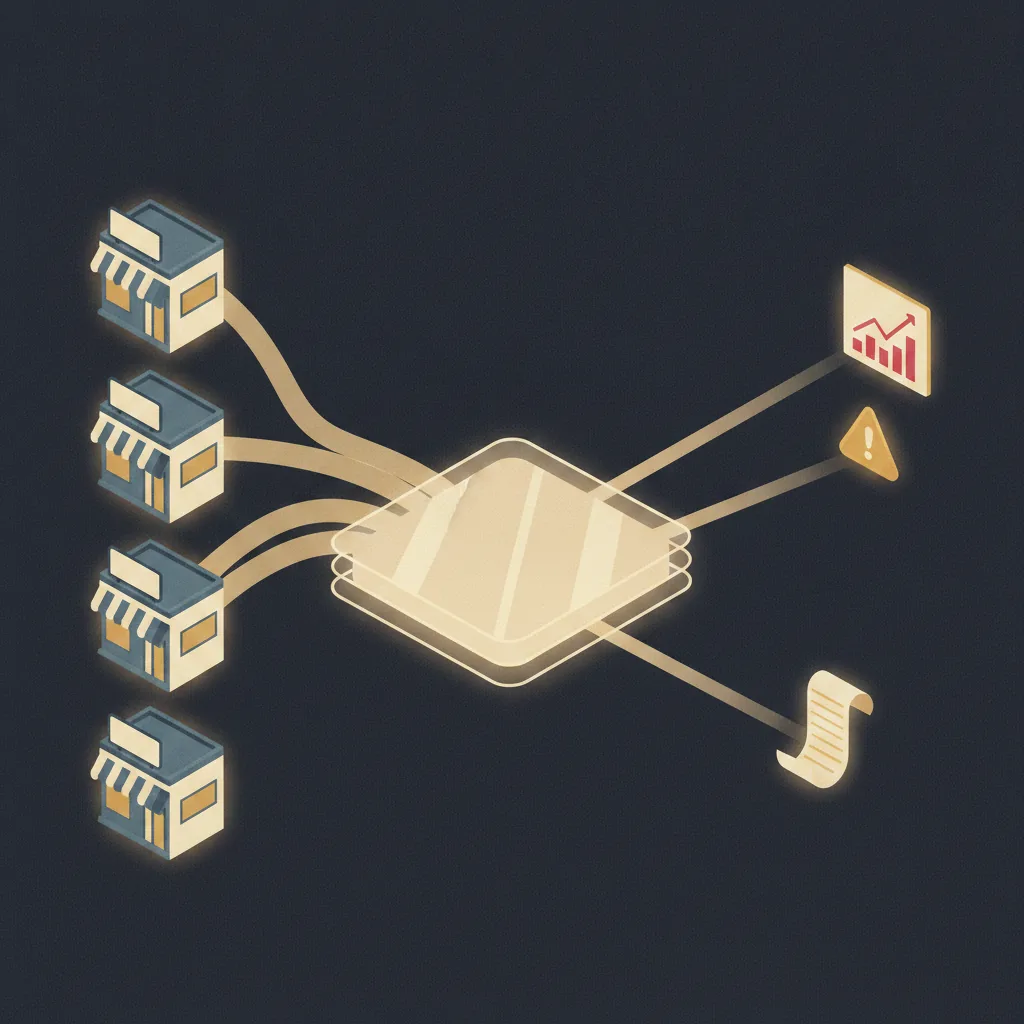
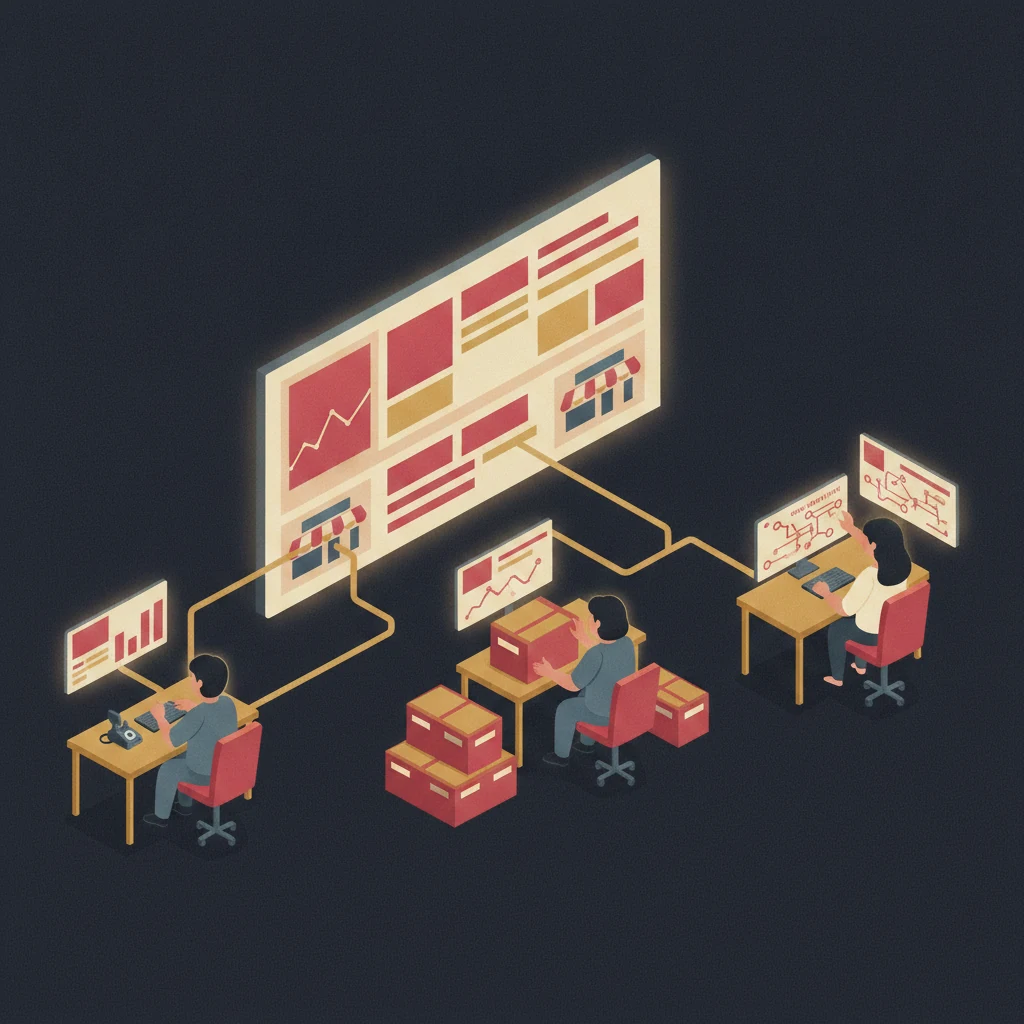
fix(content,illus): 依 Codex 經營層稽核共識調整內容承諾、表單分流與五張插圖
Jason 2026-08-16：「用 codeX 來看一下這網站，用東方美經營層角度看看，哪裡要加強？
那些插圖要調整？妳們共識後進行調整。」兩輪對話後的共識結果。

■ 硬承諾改成「做了什麼 + 適用條件」，不保證結果
- 供應不中斷 / 精準配送零積壓 / 故障前先處理 / 網路波動店務依然穩定如常 /
  技術專家全程支援 / 備援系統 六處全部改寫
- 「軟體零成本」直接撤除改「模組化導入」——加盟方案尚未定案時不能出現價格宣稱，
  這是 Jason 自己定的「加盟方案還沒決定就別亂寫」

■ 表單：新加盟 / 既有加盟主雙入口
- 全站 CTA 原本只導向「加盟洽詢」，426 家既有加盟店沒有入口，
  還會被迫填「希望加盟的區域」
- 刻意不叫「升級申請」：導入項目、費用分擔、施工安排總部都還沒定案，
  網站不能代替總部承諾。明講登記不代表取得資格、排程或費用承諾
- 新申請人也補上「不代表已錄取、保留區域或成立加盟關係」

■ 表單死路
- 三段錯誤訊息原本都叫人「直接來電」，但 HQ.tel 是空字串、頁面上沒有電話，
  等於保證把名單丟掉。改成誠實說明目前無法送出並給可走的替代路徑
- 個資保存期間從「案件結束後之合理期間」改成明確年限

■ 582 數字卡標來源
- 長文那句已符合同句標來源，但最容易被單獨截圖的是數字卡本身，補上依據

■ DayInLife 責任邊界
- 刪掉「系統會先做處置再通知你」——涉及食安的處置不能由系統決定
- 14:00 / 21:00 補適用條件（不是加回「規劃中」標籤，是已落地服務本來就該有的邊界）

■ 五張插圖重畫
- alert：原本畫店長半夜在床上被叫醒，反而強化 24 小時待命焦慮，也跟「總部會支援」
  相反。改成總部值班窗口與店長同時收到、由人確認
- hub：原本與 brain 都在畫門市資料匯集，訊息重複。改成總部戰情室三個角色看同一份狀況
- brain：原本像店員操控 AI 大腦，責任不明。改成系統提建議、店長按確認
- manpower：原本機械手臂＋輸送帶像工廠，改成飲品站自助、店員回到接待
- threshold：原本畫「門檻一階一階降下」是成效暗示，改成模組依店型組合
- brain 第一版把「SUGGESTIONS」印在卡片上，放大目視抓到後加強禁字重生

■ 我方否決 Codex 的兩條（它已收回）
- 「BrandStory 與 HomeShowcase 年份口徑分裂」：它誤讀註解，實際是移除無來源的
  1987/萬華並統一改採科專版民國 85 年，兩處一致
- 「day-1400 圖文不一致」：文案原文就有「去休息」，坐下喝東西是一致的

■ 留給 Jason 裁示、未自行動手
- 全站 noindex：站上有既有 SEO 文章與 sitemap，關索引是商業決策不是技術修補
- 既有加盟主的完整升級流程內容：等總部定案

工具連帶修正：fit_illustrations.py 併入 PNG→WebP 收原圖並覆寫，
重生插畫時不會再漏掉手動轉檔那一步。

diff --git a/src/components/FranchiseInquiryForm.tsx b/src/components/FranchiseInquiryForm.tsx
@@ -27,6 +27,20 @@ import { useState } from "react";
 
 type Status = "idle" | "sending" | "done" | "error";
 
+/**
+ * 送不出去時的替代路徑。
+ *
+ * Codex 2026-08-16 稽核抓到：原本三段錯誤訊息都寫「請直接與總部聯繫／直接來電」，
+ * 但總部電話尚未取得、HeadquartersSection 的 HQ.tel 是空字串，頁面上沒有任何電話。
+ * 等於是一條保證把名單丟掉的死路。
+ *
+ * 在拿到總部正式電話之前，誠實講「這條路現在不通」，並給出唯一真的走得通的方式，
+ * 比叫人去打一支不存在的電話好。電話填回來之後，這裡要一併改成撥號連結。
+ */
+const FALLBACK_TAIL =
+  "若持續無法送出，請將您的姓名與聯絡電話回覆給與您接洽的東方美窗口，我們會協助轉交。";
+const FALLBACK = "線上洽詢目前無法送出，我們正在開通中。" + FALLBACK_TAIL;
+
 /** 案件編號：日期 + 5 碼亂數 */
 function makeCaseNo() {
   const d = new Date();
@@ -49,6 +63,14 @@ const STAGES = [
   { v: "other", l: "其他" },
 ];
 
+/** 既有加盟主問的不是「找到店面沒」，而是想先了解哪一段 */
+const EXISTING_TOPICS = [
+  { v: "ordering", l: "叫貨與到貨核對" },
+  { v: "equipment", l: "設備與導入條件" },
+  { v: "training", l: "教育訓練與人力" },
+  { v: "other", l: "其他／想直接談" },
+];
+
 const TIMES = [
   { v: "morning", l: "上午" },
   { v: "afternoon", l: "下午" },
@@ -66,6 +88,15 @@ export default function FranchiseInquiryForm() {
   const [err, setErr] = useState("");
   const [agree, setAgree] = useState(false);
   const [showPrivacy, setShowPrivacy] = useState(false);
+  /**
+   * 讀者分流。Codex 2026-08-16 稽核指出的最大內容缺口：全站 CTA 都導向「加盟洽詢」，
+   * 但 426 家既有加盟店沒有自己的入口，還會被迫填「希望加盟的區域」。
+   *
+   * 刻意不命名為「升級申請」——升級的流程、費用、施工與責任總部都還沒定案，
+   * 網站不能代替總部承諾。這裡只做「辨識身分 + 收件」，明講提交不等於取得資格。
+   */
+  const [who, setWho] = useState<"new" | "existing">("new");
+  const existing = who === "existing";
 
   async function onSubmit(e: React.FormEvent<HTMLFormElement>) {
     e.preventDefault();
@@ -79,7 +110,7 @@ export default function FranchiseInquiryForm() {
     const endpoint = process.env.NEXT_PUBLIC_INQUIRY_ENDPOINT;
     if (!endpoint) {
       // 不假裝送出成功——沒有收件位置就誠實說
-      setErr("線上洽詢尚未開通，請直接與東方美總部聯繫。");
+      setErr(FALLBACK);
       setStatus("error");
       return;
     }
@@ -95,18 +126,19 @@ export default function FranchiseInquiryForm() {
           ...payload,
           案件編號: no,
           送件時間: new Date().toLocaleString("zh-TW", { timeZone: "Asia/Taipei" }),
+          身分: existing ? "既有加盟主" : "新加盟申請",
           來源: "官網加盟洽詢表單",
         }),
       });
       if (!res.ok) {
-        setErr("送出時發生問題，請稍後再試或直接與總部聯繫。");
+        setErr(FALLBACK);
         setStatus("error");
         return;
       }
       setCaseNo(no);
       setStatus("done");
     } catch {
-      setErr("網路連線有問題，請確認後再試一次，或直接來電洽詢。");
+      setErr("網路連線有問題，請確認後再試一次。" + FALLBACK_TAIL);
       setStatus("error");
     }
   }
@@ -145,6 +177,44 @@ export default function FranchiseInquiryForm() {
       </p>
 
       <form onSubmit={onSubmit} className="space-y-4">
+        {/* 身分先分流，後面的欄位與說明才對得上 */}
+        <div>
+          <span className={LABEL}>您的身分</span>
+          <div className="grid gap-2 sm:grid-cols-2">
+            {[
+              { v: "new" as const, l: "我想加盟", d: "還不是東方美加盟主" },
+              { v: "existing" as const, l: "我是既有加盟主", d: "已經在經營東方美門市" },
+            ].map((o) => (
+              <button
+                key={o.v}
+                type="button"
+                onClick={() => setWho(o.v)}
+                aria-pressed={who === o.v}
+                className={`rounded-lg border px-4 py-3 text-left transition-colors ${
+                  who === o.v
+                    ? "border-[#C8102E] bg-[#C8102E]/10"
+                    : "border-white/15 bg-white/[0.04] hover:border-white/30"
+                }`}
+              >
+                <span className="block text-sm font-bold text-white">{o.l}</span>
+                <span className="mt-0.5 block text-xs text-white/45">{o.d}</span>
+              </button>
+            ))}
+          </div>
+          <input type="hidden" name="identity" value={existing ? "既有加盟主" : "新加盟申請"} />
+          {!existing && (
+            <p className="mt-2 text-xs leading-relaxed text-white/45">
+              留下資料是為了讓總部與您聯繫並說明條件，不代表已錄取、保留區域或成立任何加盟關係。
+            </p>
+          )}
+          {existing && (
+            <p className="mt-2 rounded-lg border border-[#F5A623]/25 bg-[#F5A623]/[0.06] px-3 py-2 text-xs leading-relaxed text-white/70">
+              這裡先收您的需求與意見，由總部與您逐案確認。
+              導入項目、費用分擔與施工安排尚未定案，登記不代表取得資格、排程或費用承諾。
+            </p>
+          )}
+        </div>
+
         <div className="grid gap-4 sm:grid-cols-2">
           <div>
             <label className={LABEL} htmlFor="name">
@@ -172,7 +242,8 @@ export default function FranchiseInquiryForm() {
         <div className="grid gap-4 sm:grid-cols-2">
           <div>
             <label className={LABEL} htmlFor="area">
-              希望加盟的區域 <span className="text-[#C8102E]">*</span>
+              {existing ? "門市所在區域" : "希望加盟的區域"}{" "}
+              <span className="text-[#C8102E]">*</span>
             </label>
             <select id="area" name="area" required defaultValue="" className={`${INPUT} bg-[#1a222c]`}>
               <option value="" disabled>
@@ -187,13 +258,13 @@ export default function FranchiseInquiryForm() {
           </div>
           <div>
             <label className={LABEL} htmlFor="stage">
-              目前進度 <span className="text-[#C8102E]">*</span>
+              {existing ? "想先了解的方向" : "目前進度"} <span className="text-[#C8102E]">*</span>
             </label>
             <select id="stage" name="stage" required defaultValue="" className={`${INPUT} bg-[#1a222c]`}>
               <option value="" disabled>
                 請選擇
               </option>
-              {STAGES.map((s) => (
+              {(existing ? EXISTING_TOPICS : STAGES).map((s) => (
                 <option key={s.v} value={s.l}>
                   {s.l}
                 </option>
@@ -292,11 +363,11 @@ export default function FranchiseInquiryForm() {
               </p>
               <p>
                 <b className="text-white/75">個資類別：</b>
-                姓名、手機、電子郵件、希望加盟區域與您主動提供的內容
+                姓名、手機、電子郵件、加盟身分、區域與您主動提供的內容
               </p>
               <p>
                 <b className="text-white/75">利用期間與範圍：</b>
-                自送出日起至洽詢案件結束後之合理期間，於台灣地區、由本公司及受託協助處理之服務商以電子或紙本方式利用
+                自送出日起保存 2 年（洽詢未成案）或至加盟關係結束後 5 年（已成案），期滿即刪除；於台灣地區、由本公司及受託協助處理之服務商以電子或紙本方式利用
               </p>
               <p>
                 <b className="text-white/75">您的權利：</b>

diff --git a/src/components/HomeShowcase.tsx b/src/components/HomeShowcase.tsx
@@ -179,7 +179,7 @@ export default function HomeShowcase() {
                   },
                   {
                     title: "FreshLink 冷鏈配送",
-                    desc: "專業車隊從倉庫直送多家門市，先進導航確保食材新鮮，供應不中斷。",
+                    desc: "自有冷鏈車隊從倉庫直送門市，配送排程與路線由系統安排。",
                     icon: "M8.25 18.75a1.5 1.5 0 01-3 0m3 0a1.5 1.5 0 00-3 0m3 0h6m-9 0H3.375a1.125 1.125 0 01-1.125-1.125V14.25m17.25 4.5a1.5 1.5 0 01-3 0m3 0a1.5 1.5 0 00-3 0m3 0H21M3.375 14.25h-.375a3 3 0 013-3h.75m0 0h10.5m-10.5 0V6.375a1.125 1.125 0 011.125-1.125h6.75c.621 0 1.125.504 1.125 1.125v7.875m0 0h.375a3 3 0 013 3v.375M17.25 14.25h.375",
                   },
                   {
@@ -217,6 +217,7 @@ export default function HomeShowcase() {
                 <div className="text-center">
                   <div className="text-3xl font-black text-white">1996</div>
                   <div className="mt-1 text-xs text-gray-500">公司設立</div>
+                  <div className="mt-0.5 text-[10px] leading-tight text-gray-600">民國 85 年</div>
                 </div>
                 <div className="text-center">
                   <div className="text-3xl font-black text-white">
@@ -230,6 +231,9 @@ export default function HomeShowcase() {
                     <AnimatedCounter value={582} className="inline" />
                   </div>
                   <div className="mt-1 text-xs text-gray-500">全台門市</div>
+                  <div className="mt-0.5 text-[10px] leading-tight text-gray-600">
+                    依科專計畫書送件資料
+                  </div>
                 </div>
               </div>
 
@@ -761,8 +765,8 @@ export default function HomeShowcase() {
               <div className="grid gap-4 sm:grid-cols-3 rounded-xl bg-white/[0.02] border border-white/[0.05] p-5">
                 {[
                   { title: "資安監控", desc: "保護營業秘密與會員資料" },
-                  { title: "備援系統", desc: "網路波動，店務依然穩定如常" },
-                  { title: "專業 SI 團隊", desc: "技術專家全程支援" },
+                  { title: "備援機制", desc: "網路中斷時門市可離線作業，恢復後補傳" },
+                  { title: "技術團隊", desc: "導入與維運由專責團隊對接，支援範圍依合約約定" },
                 ].map((s) => (
                   <div key={s.title} className="flex items-start gap-3">
                     <span className="mt-0.5 flex h-5 w-5 flex-shrink-0 items-center justify-center rounded-full bg-green-500/20 text-xs text-green-400">✓</span>
@@ -780,7 +784,7 @@ export default function HomeShowcase() {
           <StaggerContainer className="grid gap-5 sm:grid-cols-3" staggerDelay={0.12}>
             {[
               { title: "快速複製", desc: "支援多店模式，從一家店輕鬆變連鎖集團", stat: "多家門市", scene: "replicate" as SceneKey },
-              { title: "降低門檻", desc: "整合設備、物流、原物料，不需要懂 IT 也能經營智慧餐廳", stat: "軟體零成本", scene: "threshold" as SceneKey },
+              { title: "降低門檻", desc: "設備、物流、原物料先組成可選模組，不必自己一項一項談", stat: "模組化導入", scene: "threshold" as SceneKey },
               { title: "精實人力", desc: "透過 AI 代理人與智慧櫃，緩解缺工壓力，提升人效", stat: "緩解缺工", scene: "manpower" as SceneKey },
             ].map((s) => (
               <StaggerItem key={s.title}>
@@ -855,7 +859,7 @@ export default function HomeShowcase() {
             {[
               { display: "即時", label: "庫存可見度", desc: "系統掌握門市需求，減少缺貨與囤貨" },
               { display: "數據", label: "採購決策", desc: "以實際銷售紀錄取代憑印象備料" },
-              { display: "預防性", label: "設備維護", desc: "IoT 回報異常，故障前先處理" },
+              { display: "預防性", label: "設備維護", desc: "IoT 回報溫度與運轉狀態，異常即時通知" },
             ].map((m) => (
               <StaggerItem key={m.label}>
                 <div className="rounded-2xl border border-white/[0.06] bg-white/[0.03] p-6 text-center">
@@ -882,7 +886,7 @@ export default function HomeShowcase() {
             {[
               { title: "實時銷售數據", desc: "每一筆 QR 點餐訂單即時上傳雲端，建立完整銷售數據庫。", accent: "border-t-[#C8102E]" },
               { title: "AI 需求預估", desc: "分析歷史趨勢，預測未來一週需求，考量季節與天氣因素。", accent: "border-t-[#F5A623]" },
-              { title: "自動補貨決策", desc: "低於安全庫存自動下單，優化車隊路徑，精準配送零積壓。", accent: "border-t-green-500" },
+              { title: "自動補貨決策", desc: "低於安全庫存時提出補貨建議，經確認後成單，配送路線一併排入。", accent: "border-t-green-500" },
             ].map((s, i) => (
               <StaggerItem key={s.title} className="relative">
                 <div className={`border-t-2 ${s.accent} bg-white/[0.03] border-x border-b border-white/[0.06] ${i === 0 ? "rounded-l-2xl" : ""} ${i === 2 ? "rounded-r-2xl" : ""} p-7`}>

diff --git a/src/components/SceneIllustration.tsx b/src/components/SceneIllustration.tsx
@@ -13,7 +13,17 @@ import Image from "next/image";
  *     產出後逐張放大目視驗過。首輪 supply 曾把「BREAKFAST」畫進招牌、hub 畫出亂碼假字，
  *     已重生修掉（見 scripts/gen_section_illustrations.py 的紀錄）
  *
- * 素材：scripts/gen_section_illustrations.py 產生，存 public/images/illus/*.webp
+ * 素材：scripts/gen_section_illustrations.py 產生 → scripts/fit_illustrations.py 去邊裁切
+ *       → public/images/illus/*.webp（原圖留在 public 外的 assets/illus-raw）
+ *
+ * 2026-08-16 第二輪：Codex 以東方美經營層角度稽核後，五張依共識重畫——
+ *   alert     原本畫店長半夜在床上被叫醒 → 反而強化「24 小時待命」焦慮，
+ *             也跟「總部會支援」相反。改成總部值班窗口與店長同時收到，由人確認。
+ *   hub       原本與 brain 都在畫「門市資料匯集」，訊息重複。改成總部戰情室：
+ *             營運／採購／物流三個角色看同一份狀況，各自行動——這才是經營層要看的中台價值。
+ *   brain     原本像店員操控 AI 大腦，責任不明。改成系統提建議、店長按確認。
+ *   manpower  原本機械手臂＋輸送帶像工廠，不像台灣早餐店，且引發「取代人」聯想。
+ *   threshold 原本畫「門檻一階一階降下」是成效暗示。改成模組依店型組合。
  */
 
 export type SceneKey =
@@ -42,15 +52,15 @@ const ALT: Record<SceneKey, string> = {
   "off-peak": "示意圖：同一家店，白天內用滿座，夜間由智取櫃與點餐機繼續服務",
   equipment: "示意圖：尖峰時段由點餐機與自動出品設備分擔重複作業，人力回到面對顧客",
   knowledge: "示意圖：資深店長的在地經驗被整理成可查詢的紀錄，新人用手機就問得到",
-  alert: "示意圖：夜間冷藏設備出現異常，通知送到店長手機，仍由人做最後確認",
+  alert: "示意圖：夜間設備異常同時通知總部值班窗口與店長，由人確認後才處置",
   terminal: "示意圖：顧客用手機掃碼下單，訂單直接進入 POS 並印出單據",
-  brain: "示意圖：分散的門市資料匯整成戰情面板與建議，異常會被標記出來",
+  brain: "示意圖：系統提出建議、標記異常，由店長逐項確認後才生效",
   locker: "示意圖：門口智取櫃其中一格開啟供顧客自取，店內出餐螢幕同步顯示",
   supply: "示意圖：冷鏈配送車從中央倉出發，把食材直送到門市",
-  hub: "示意圖：各門市的資料匯入管控中台，整理後輸出成戰情、異常提醒與訂單",
+  hub: "示意圖：總部營運、採購、物流三個角色看同一份門市狀況，各自採取行動",
   replicate: "示意圖：一家店驗證可行的做法，複製到其他門市",
-  threshold: "示意圖：設備、物流與原物料先組成模組，開店的門檻一階一階降下來",
-  manpower: "示意圖：重複性作業交給設備，人力回到需要判斷與接待的環節",
+  threshold: "示意圖：設備、物流與原物料先做成可選模組，依店型組合，不必一項一項自己談",
+  manpower: "示意圖：飲品站由顧客自助操作，店員回到備餐與接待顧客",
   "day-0500": "示意圖：清晨開店，鐵門半開，店長在備料台上確認系統整理好的叫貨單",
   "day-0730": "示意圖：早餐尖峰，顧客在點餐機下單，店員從容遞出餐點，廚房螢幕同步顯示",
   "day-1100": "示意圖：配送車到店，店長拿手機掃碼點收，數量與品項當場核對",

diff --git a/src/components/DayInLife.tsx b/src/components/DayInLife.tsx
@@ -32,6 +32,10 @@ type Phase = {
   title: string;
   you: string;
   system: string[];
+  /** 該時段的適用條件。Codex 2026-08-16 稽核：延伸營運時段涉及食安、設備、退款與
+   *  治安責任，即使是願景版也必須寫清楚適用邊界——這不是「規劃中」狀態標籤，
+   *  是已落地服務本來就該有的邊界。 */
+  scope?: string;
   /** 各時段一張情境示意圖。Jason 2026-08-16：「加盟主的一天這邊也請加入易懂的插畫。」
    *  五張刻意用不同光線（藍調清晨→金色尖峰→中午→午後斜陽→夜色），讓人一眼看得出是同一天的推進。 */
   scene: SceneKey;
@@ -77,6 +81,7 @@ const PHASES: Phase[] = [
   {
     time: "14:00",
     scene: "day-1400",
+    scope: "離峰時段的自助品項依門市坪數、動線與商圈評估後決定，不是每家店都相同。",
     label: "離峰",
     title: "店還開著，但不用一直站著",
     you: "客人少了，但店還得開。",
@@ -89,12 +94,15 @@ const PHASES: Phase[] = [
   {
     time: "21:00",
     scene: "day-2100",
+    scope:
+      "延長營運僅適用於完成總部店型、設備與營運條件評估的門市。可售品項、保存與取餐期限、" +
+      "逾時未取處理，一律依核定的食品安全 SOP 執行。",
     label: "打烊後",
     title: "你回家了，設備還在營業",
     you: "以前這個時間拉下鐵門，一天就結束了。",
     system: [
       "取餐櫃與自助設備繼續接單，顧客掃碼自取",
-      "溫度異常、設備故障，系統會先做處置再通知你",
+      "溫度異常或設備故障會即時通知，涉及食品安全的處置由人確認後執行",
       "隔天早上你會收到一份夜裡發生什麼事的摘要",
     ],
   },
@@ -175,6 +183,11 @@ export default function DayInLife() {
                       </li>
                     ))}
                   </ul>
+                  {p.scope && (
+                    <p className="text-muted-token mt-4 border-t border-white/[0.08] pt-3 text-xs leading-relaxed">
+                      {p.scope}
+                    </p>
+                  )}
                   </div>
                   </div>
                 </article>
